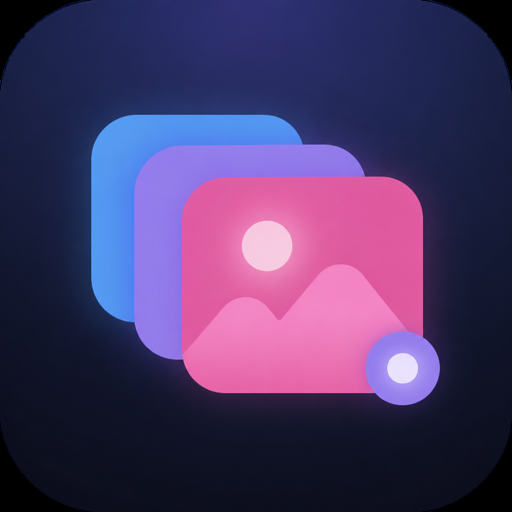
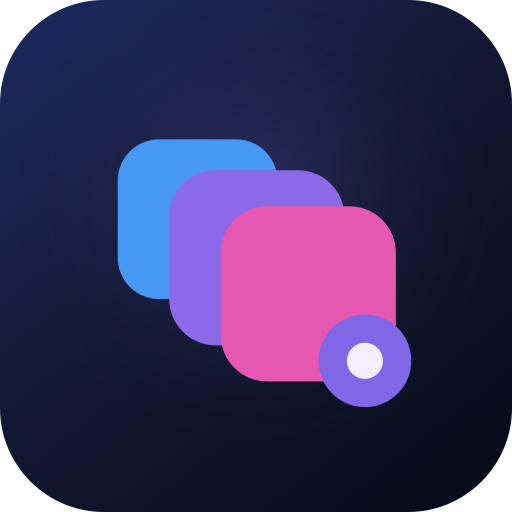
docs: add scalable package mark

diff --git a/apps/docs/umbraco-package.ts b/apps/docs/umbraco-package.ts
@@ -12,7 +12,7 @@ export const aiImageDisclosurePackage = defineUmbracoPackage({
       "https://marketplace.umbraco.com/package/thebuilder.aiimagedisclosure",
     github: "https://github.com/thebuilder/umbraco-ai-generated",
   },
-  logo: "/logo.png",
+  logo: "/logo-mark.svg",
   compatibility: {
     umbraco: ">=17.1 <19",
     dotnet: ">=10",

diff --git a/apps/docs/blume.config.ts b/apps/docs/blume.config.ts
@@ -5,7 +5,7 @@ export default defineConfig({
   title: aiImageDisclosurePackage.name,
   description: aiImageDisclosurePackage.summary,
   logo: {
-    image: "/logo.png",
+    image: "/logo-mark.svg",
     text: "AI Image Disclosure",
   },
   github: {
